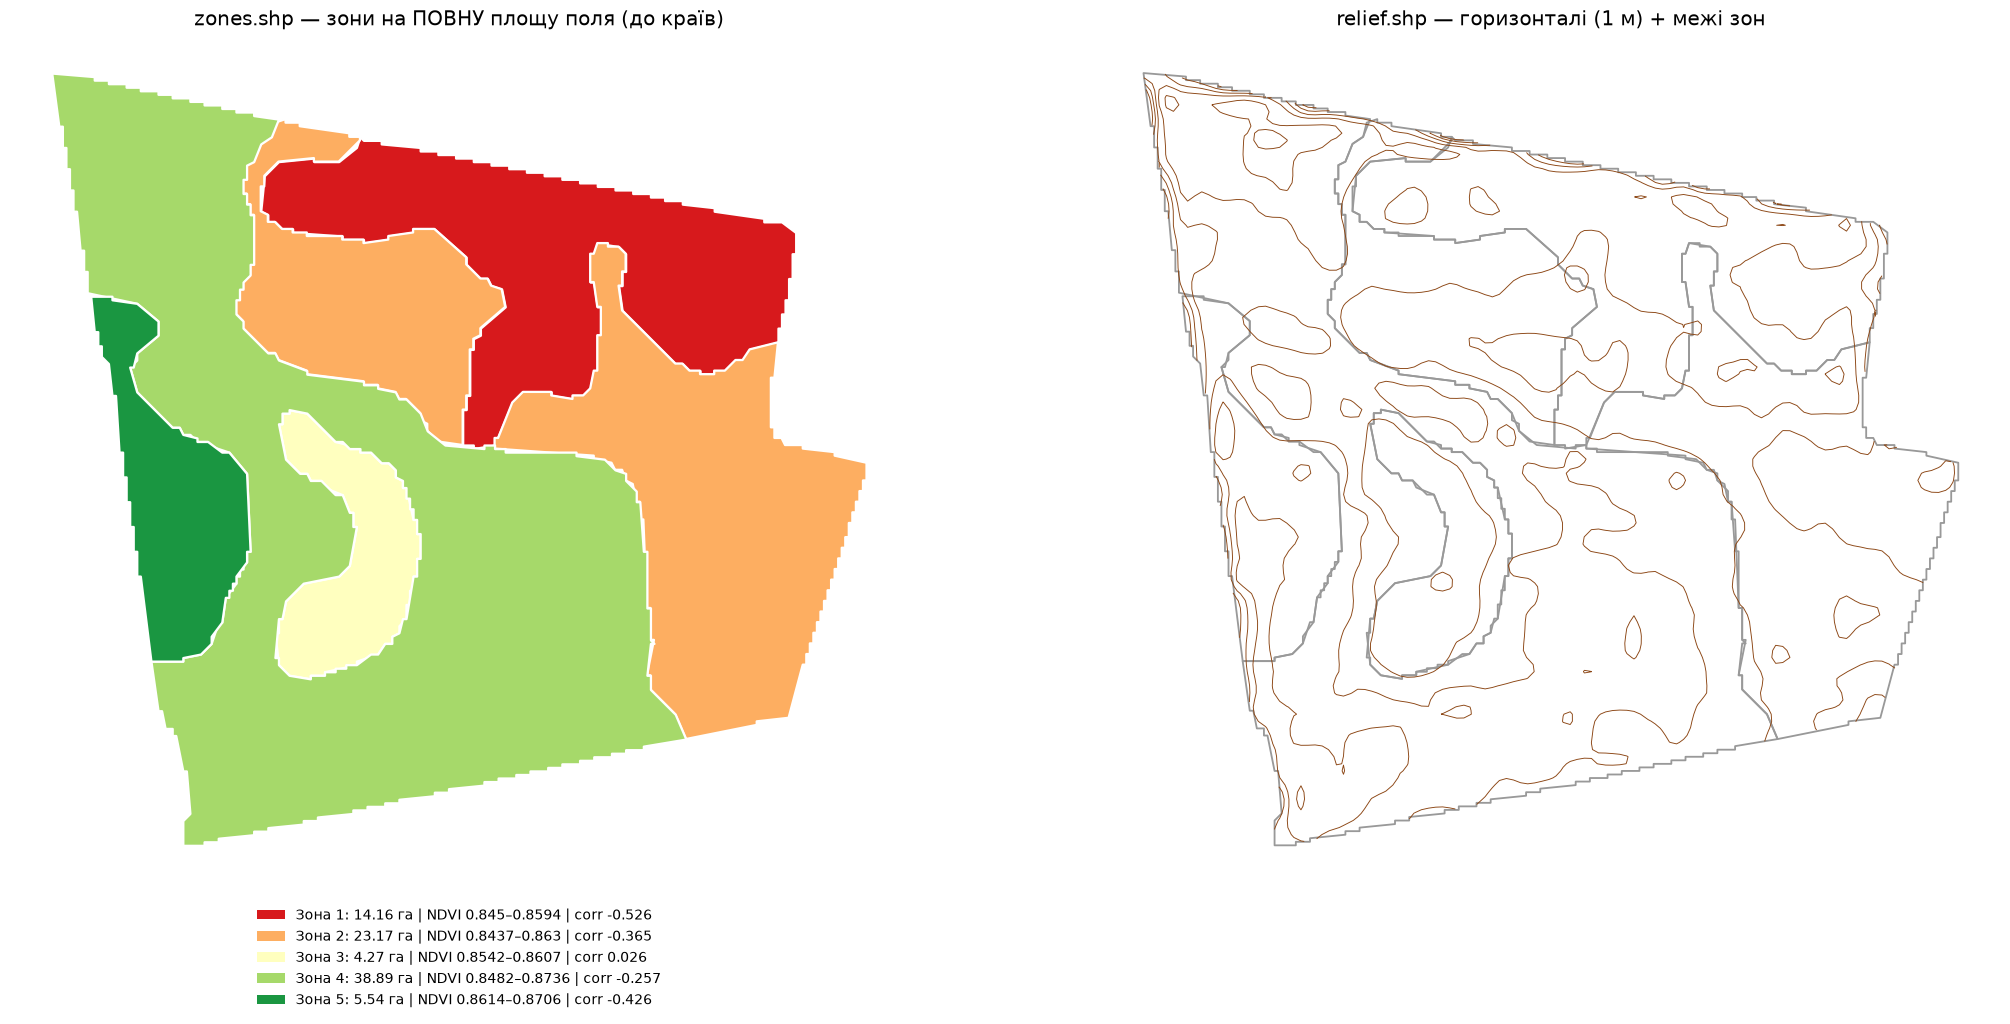
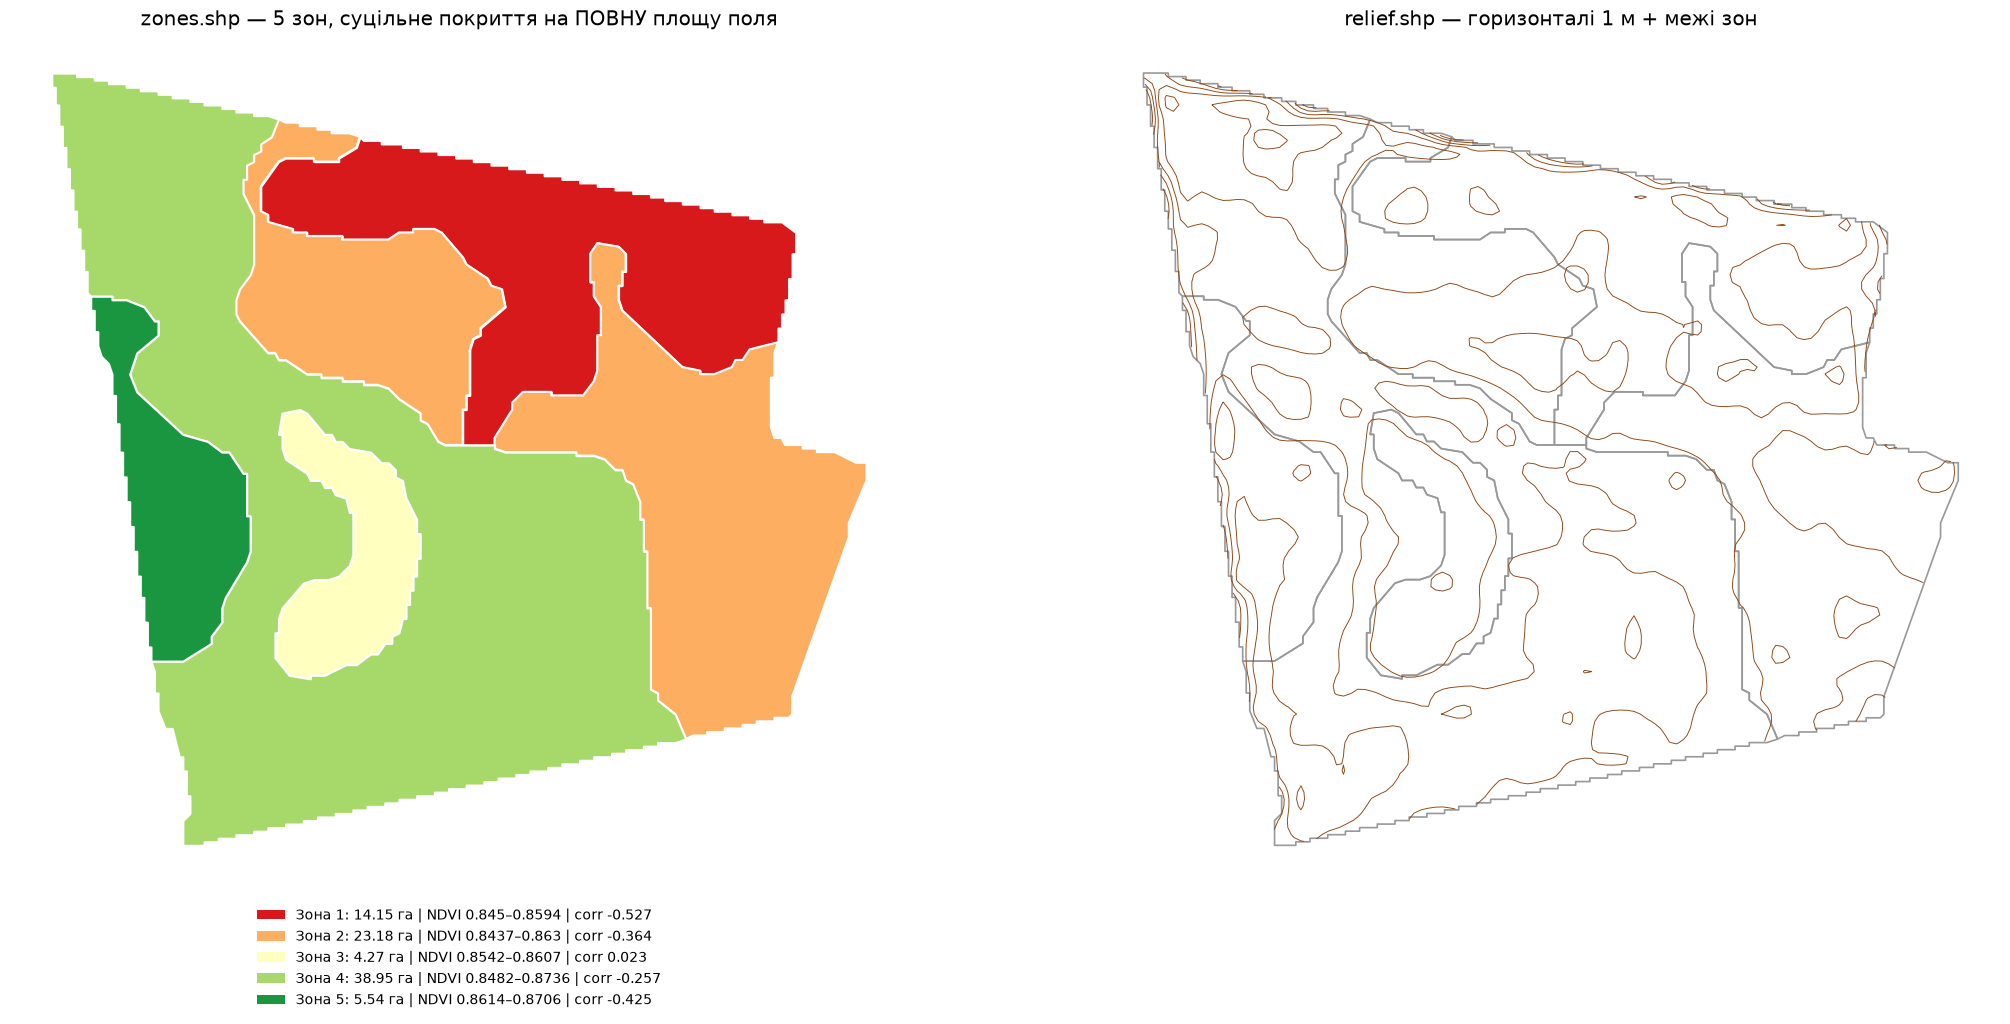
Fix zones coverage integrity (gaps/slivers) + add hard self-check
The per-polygon .simplify() opened slivers between adjacent zones (union had 38
interior holes). Replace with topology-preserving simplification and guarantee a
gap-free coverage:

- shapely.coverage_simplify (shared edges stay coincident, not simplified apart)
- set_precision snap after reprojection to OUT_CRS
- fill_coverage_gaps: any residual hole merged into the neighbour with the
  longest shared border (deterministic, works for any field)
- write -> RE-READ from disk -> validate; heal once, else abort without shipping
  a broken file (gaps(holes)==0 is a hard precondition)

Verified on П1: written file has 0 gaps, 0 overlap, full 86.08 ha coverage.

Claude-Session: https://claude.ai/code/session_01L35FbZGH8gJPJf3Zgg8qoj

diff --git a/satellite_zoning_template/output_P1_example/zones.qml b/satellite_zoning_template/output_P1_example/zones.qml
@@ -1,2 +1,2 @@
 <!DOCTYPE qgis PUBLIC 'http://mrcc.com/qgis.dtd' 'SYSTEM'>
-<qgis version="3.28" styleCategories="Symbology"><renderer-v2 type="categorizedSymbol" attr="zone_id" forceraster="0" symbollevels="0" enableorderby="0"><categories><category value="1" symbol="0" label="Зона 1 (NDVI 0.8481)" render="true"/><category value="2" symbol="1" label="Зона 2 (NDVI 0.8518)" render="true"/><category value="3" symbol="2" label="Зона 3 (NDVI 0.8557)" render="true"/><category value="4" symbol="3" label="Зона 4 (NDVI 0.8606)" render="true"/><category value="5" symbol="4" label="Зона 5 (NDVI 0.8693)" render="true"/></categories><symbols><symbol type="fill" name="0"><layer class="SimpleFill"><Option type="Map"><Option name="color" type="QString" value="215,25,28,255"/><Option name="outline_color" type="QString" value="255,255,255,255"/><Option name="outline_width" type="QString" value="0.26"/><Option name="style" type="QString" value="solid"/></Option></layer></symbol><symbol type="fill" name="1"><layer class="SimpleFill"><Option type="Map"><Option name="color" type="QString" value="253,174,97,255"/><Option name="outline_color" type="QString" value="255,255,255,255"/><Option name="outline_width" type="QString" value="0.26"/><Option name="style" type="QString" value="solid"/></Option></layer></symbol><symbol type="fill" name="2"><layer class="SimpleFill"><Option type="Map"><Option name="color" type="QString" value="255,255,191,255"/><Option name="outline_color" type="QString" value="255,255,255,255"/><Option name="outline_width" type="QString" value="0.26"/><Option name="style" type="QString" value="solid"/></Option></layer></symbol><symbol type="fill" name="3"><layer class="SimpleFill"><Option type="Map"><Option name="color" type="QString" value="166,217,106,255"/><Option name="outline_color" type="QString" value="255,255,255,255"/><Option name="outline_width" type="QString" value="0.26"/><Option name="style" type="QString" value="solid"/></Option></layer></symbol><symbol type="fill" name="4"><layer class="SimpleFill"><Option type="Map"><Option name="color" type="QString" value="26,150,65,255"/><Option name="outline_color" type="QString" value="255,255,255,255"/><Option name="outline_width" type="QString" value="0.26"/><Option name="style" type="QString" value="solid"/></Option></layer></symbol></symbols></renderer-v2></qgis>
+<qgis version="3.28" styleCategories="Symbology"><renderer-v2 type="categorizedSymbol" attr="zone_id" forceraster="0" symbollevels="0" enableorderby="0"><categories><category value="1" symbol="0" label="Зона 1 (NDVI 0.8481)" render="true"/><category value="2" symbol="1" label="Зона 2 (NDVI 0.8518)" render="true"/><category value="3" symbol="2" label="Зона 3 (NDVI 0.8558)" render="true"/><category value="4" symbol="3" label="Зона 4 (NDVI 0.8606)" render="true"/><category value="5" symbol="4" label="Зона 5 (NDVI 0.8693)" render="true"/></categories><symbols><symbol type="fill" name="0"><layer class="SimpleFill"><Option type="Map"><Option name="color" type="QString" value="215,25,28,255"/><Option name="outline_color" type="QString" value="255,255,255,255"/><Option name="outline_width" type="QString" value="0.26"/><Option name="style" type="QString" value="solid"/></Option></layer></symbol><symbol type="fill" name="1"><layer class="SimpleFill"><Option type="Map"><Option name="color" type="QString" value="253,174,97,255"/><Option name="outline_color" type="QString" value="255,255,255,255"/><Option name="outline_width" type="QString" value="0.26"/><Option name="style" type="QString" value="solid"/></Option></layer></symbol><symbol type="fill" name="2"><layer class="SimpleFill"><Option type="Map"><Option name="color" type="QString" value="255,255,191,255"/><Option name="outline_color" type="QString" value="255,255,255,255"/><Option name="outline_width" type="QString" value="0.26"/><Option name="style" type="QString" value="solid"/></Option></layer></symbol><symbol type="fill" name="3"><layer class="SimpleFill"><Option type="Map"><Option name="color" type="QString" value="166,217,106,255"/><Option name="outline_color" type="QString" value="255,255,255,255"/><Option name="outline_width" type="QString" value="0.26"/><Option name="style" type="QString" value="solid"/></Option></layer></symbol><symbol type="fill" name="4"><layer class="SimpleFill"><Option type="Map"><Option name="color" type="QString" value="26,150,65,255"/><Option name="outline_color" type="QString" value="255,255,255,255"/><Option name="outline_width" type="QString" value="0.26"/><Option name="style" type="QString" value="solid"/></Option></layer></symbol></symbols></renderer-v2></qgis>

diff --git a/satellite_zoning_template/run_zoning.py b/satellite_zoning_template/run_zoning.py
@@ -39,6 +39,7 @@ import urllib.request
 import numpy as np
 import geopandas as gpd
 import pandas as pd
+import shapely
 import rasterio
 from rasterio.features import rasterize, shapes as rio_shapes
 from rasterio.transform import from_origin, Affine
@@ -154,6 +155,62 @@ def download_cop30(lat, lon, cache="dem_cache"):
     return out
 
 
+def coverage_holes_overlap(gdf):
+    """Integrity of a polygon coverage: (#gaps, overlap_m2, union).
+    gaps  = interior holes of the union (= white slivers between zones);
+    overlap = sum(parts) - union area (should be ~0)."""
+    u = shapely.union_all(gdf.geometry.values)
+    geoms = u.geoms if u.geom_type == "MultiPolygon" else [u]
+    holes = sum(len(list(p.interiors)) for p in geoms)
+    overlap = float(gdf.geometry.area.sum() - u.area)
+    return holes, overlap, u
+
+
+def clean_coverage(z, field, tol):
+    """Topology-preserving simplification of the zone coverage. Keeps shared
+    edges coincident (NO gaps/overlaps). Falls back to the unsimplified (still
+    gap-free) coverage if simplification would break integrity."""
+    base = z.copy()
+    try:
+        simp = shapely.coverage_simplify(z.geometry.values, tolerance=tol,
+                                         simplify_boundary=True)
+        cand = z.copy(); cand["geometry"] = simp
+        cand["geometry"] = cand.geometry.buffer(0)          # heal any float noise
+        h, ov, _ = coverage_holes_overlap(cand)
+        if h == 0 and abs(ov) < field.area * 1e-4:
+            return cand
+        print(f"  [warn] simplify(tol={tol}) -> gaps={h}; keeping unsimplified coverage")
+    except Exception as e:
+        print("  [warn] coverage_simplify unavailable:", e)
+    return base
+
+
+def fill_coverage_gaps(gdf):
+    """Deterministically remove ANY gaps (interior holes of the union) by merging
+    each gap into the neighbouring zone with the longest shared border. Works in
+    any CRS; guarantees a gap-free coverage regardless of upstream precision."""
+    from shapely.geometry import Polygon
+    geoms = list(gdf.geometry.values)
+    u = shapely.union_all(geoms)
+    polys = u.geoms if u.geom_type == "MultiPolygon" else [u]
+    filled = shapely.union_all([Polygon(p.exterior) for p in polys])
+    gaps = filled.difference(u)
+    if gaps.is_empty:
+        return gdf
+    gp_list = gaps.geoms if gaps.geom_type in ("MultiPolygon", "GeometryCollection") else [gaps]
+    for gp in gp_list:
+        if getattr(gp, "area", 0) <= 0:
+            continue
+        best, blen = 0, -1.0
+        for i, zg in enumerate(geoms):
+            shared = zg.boundary.intersection(gp.boundary).length
+            if shared > blen:
+                blen, best = shared, i
+        geoms[best] = shapely.union_all([geoms[best], gp])
+    out = gdf.copy(); out["geometry"] = geoms
+    return out
+
+
 def hex2rgb(h):
     h = h.lstrip("#"); return f"{int(h[0:2],16)},{int(h[2:4],16)},{int(h[4:6],16)},255"
 
@@ -251,11 +308,18 @@ def main():
         fulls = sieve(fulls, field_mask, int(0.3 * 1e4 / GRID_M ** 2))
     else:
         fulls = full
+    # rasterio shapes tile exactly (shared pixel edges) -> gap-free coverage.
+    # Simplify the WHOLE coverage at once (NOT per polygon) so shared edges stay
+    # coincident. Per-polygon .simplify() would open slivers between zones.
     recs = [{"zone_id": int(val), "geometry": shape(g)}
             for g, val in rio_shapes(fulls, mask=field_mask, transform=tr) if int(val)]
     z = gpd.GeoDataFrame(recs, crs=EPSG).dissolve(by="zone_id", as_index=False)
-    z["geometry"] = z.geometry.simplify(4)
+    z = clean_coverage(z, field, tol=max(4.0, P["round_m"] * 0.5))
     z = z[z.geometry.area > 0]
+
+    hutm, outm, _ = coverage_holes_overlap(z)
+    print(f"  coverage (UTM): gaps={hutm}  overlap={outm:.1f} m2  "
+          f"= {z.geometry.area.sum()/1e4:.2f}/{field.area/1e4:.2f} ha")
 
     # ---- per-zone attributes (from cleaned core pixels) ----
     labf = rasterize([(g, i) for g, i in zip(z.geometry, z.zone_id)], (H, W),
@@ -281,9 +345,28 @@ def main():
     z = z.merge(attr, on="zone_id")
     z = z[["zone_id", "veg_min", "veg_max", "veg_mean", "area_ha", "corr_elev", "geometry"]]
 
-    # ---- write zones.shp ----
+    # ---- reproject to OUT_CRS, SNAP coords so reprojection can't open slivers,
+    #      then HARD integrity check on the EXACT geometry we are about to write ----
+    z_out = z.to_crs(OUT_CRS)
+    grid = 1e-7 if z_out.crs.is_geographic else 0.01     # ~1 cm snap
+    z_out["geometry"] = shapely.set_precision(z_out.geometry.values, grid_size=grid)
+    z_out = z_out[~z_out.geometry.is_empty]
+    z_out = fill_coverage_gaps(z_out)                    # deterministic gap removal
+    z_out["geometry"] = z_out.geometry.buffer(0)
+
+    # write, then RE-READ and validate the ACTUAL file (I/O can reintroduce slivers)
     zone_path = os.path.join(OUT_DIR, "zones.shp")
-    z.to_crs(OUT_CRS).to_file(zone_path)
+    z_out.to_file(zone_path)
+    check = gpd.read_file(zone_path)
+    holes, overlap, _ = coverage_holes_overlap(check)
+    if holes > 0:                                        # last-resort heal + rewrite
+        fill_coverage_gaps(check).to_file(zone_path)
+        check = gpd.read_file(zone_path)
+        holes, overlap, _ = coverage_holes_overlap(check)
+    print(f"  INTEGRITY (written file, {OUT_CRS}): gaps(holes)={holes}  overlap≈{overlap:.2e}")
+    if holes > 0:
+        raise SystemExit(f"!! ЦІЛІСНІСТЬ ПОРУШЕНА: {holes} щілин у покритті — файл НЕ збережено.")
+    z = z_out
     if WRITE_QML:
         write_qml_categorized(os.path.join(OUT_DIR, "zones.qml"), "zone_id",
                               [(int(rr.zone_id), f"Зона {int(rr.zone_id)} (NDVI {rr.veg_mean})",

diff --git a/satellite_zoning_template/README.md b/satellite_zoning_template/README.md
@@ -45,6 +45,19 @@
 6. рельєф — з безкоштовної ЦМР **Copernicus GLO-30** (ESA, ~30 м) за контуром
    (автозавантаження; або вкажіть локальний DEM у `DEM_PATH`).
 
+## Цілісність покриття (гарантія)
+`zones.shp` — це **суцільне покриття без щілин і перекриттів**. Це забезпечено
+жорстко:
+* межі зон спрощуються **топологічно-цілісно** (`shapely.coverage_simplify`) —
+  спільні межі сусідніх зон лишаються збіжними (а НЕ спрощуються окремо, що
+  колись відкривало «слівери»);
+* після перепроєкції координати **прив'язуються до сітки** (`set_precision`);
+* будь-яка залишкова щілина **детерміновано зливається** із сусідньою зоною
+  (`fill_coverage_gaps`);
+* нарешті файл **перечитується з диска й перевіряється** — якщо лишилась хоч
+  одна щілина, скрипт **зупиняється й НЕ зберігає** биту версію
+  (`gaps(holes)==0` — обов'язкова умова).
+
 ## Рівні згладжування
 `A` — максимально точно (повторює малюнок NDVI) · `B` — легко · **`C` —
 рекомендовано** (баланс точність/простота) · `D` — сильно (прості блоки).